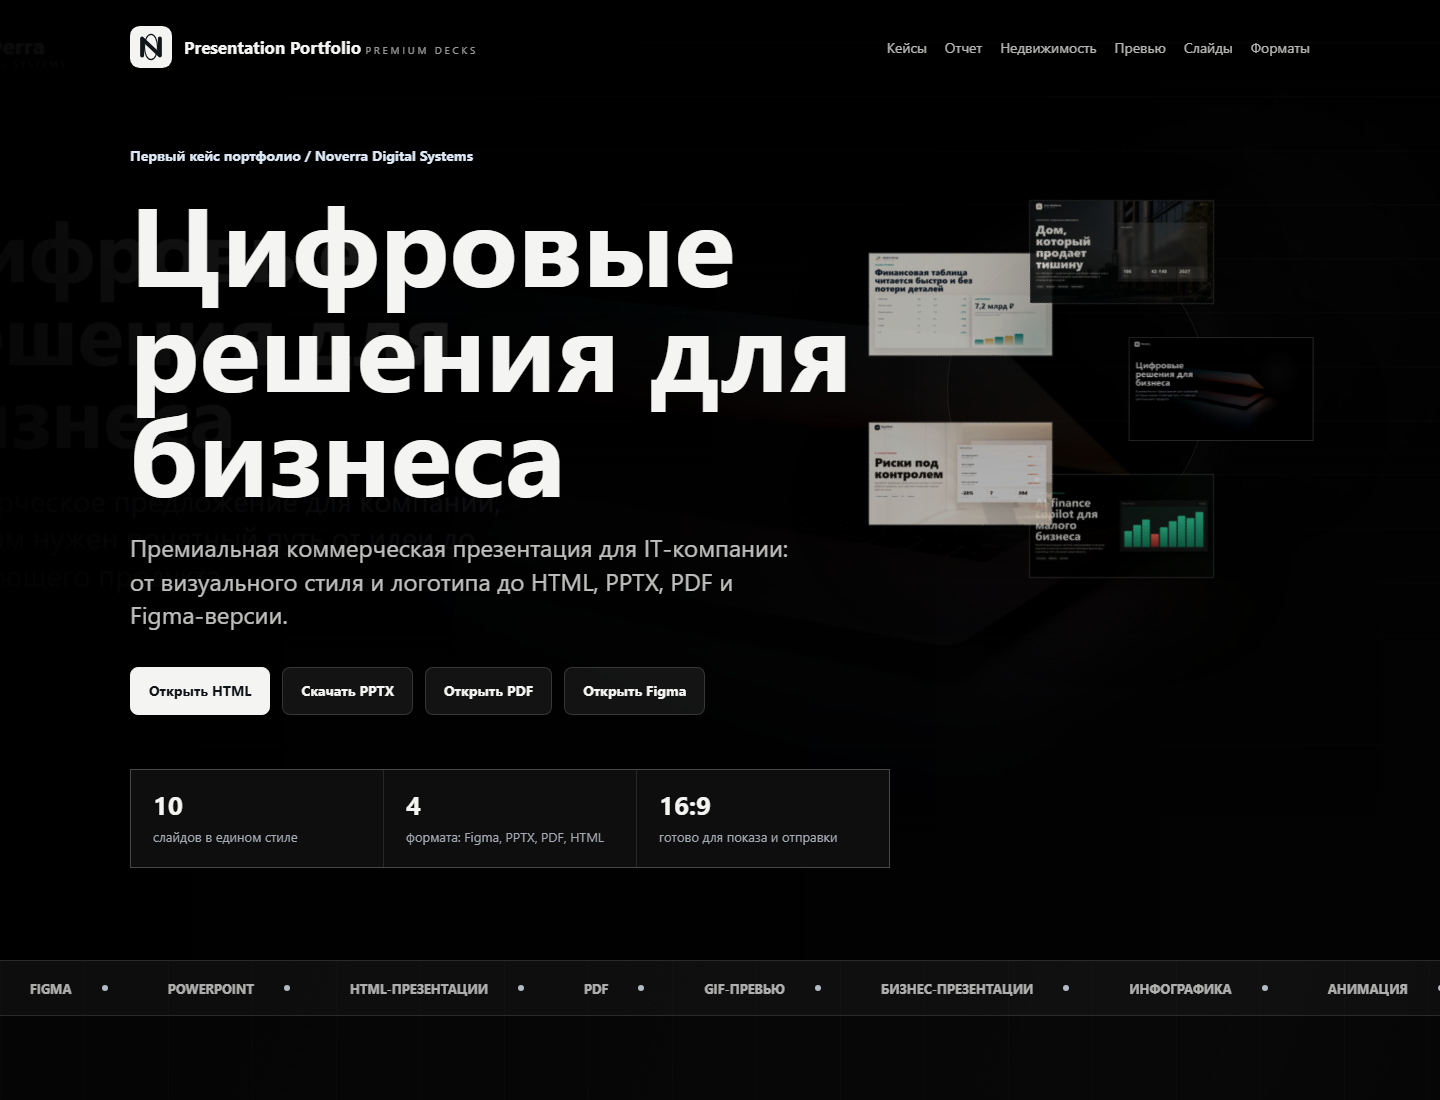
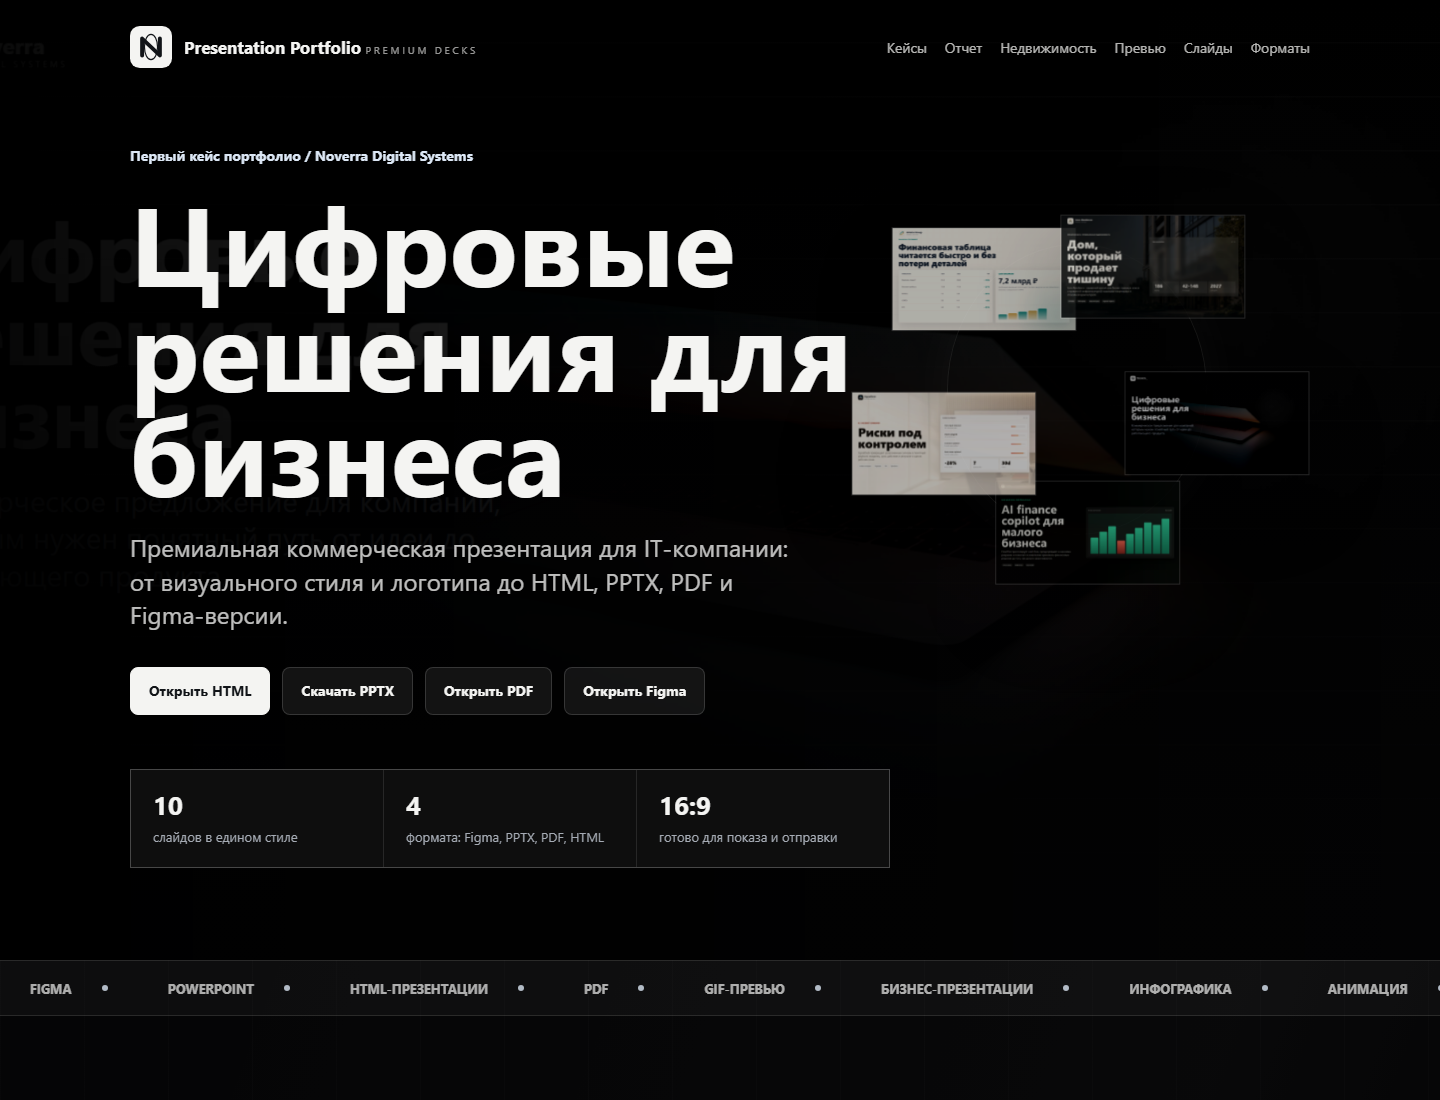
Make hero previews rotate continuously

Changed region(s): [[0.5938, 0.1855, 0.875, 0.5255], [0.7812, 0.3091, 0.875, 0.4018]]

diff --git a/index.html b/index.html
@@ -119,7 +119,6 @@
       position: absolute;
       inset: 2%;
       --orbit-radius: clamp(120px, 10vw, 165px);
-      animation: orbitSpin 30s linear infinite;
       transform-origin: 50% 50%;
     }
 
@@ -139,6 +138,7 @@
       width: clamp(138px, 13vw, 210px);
       aspect-ratio: 16 / 9;
       transform: translate(-50%, -50%) rotate(var(--angle)) translateX(var(--orbit-radius));
+      animation: orbitFrame 24s linear infinite;
     }
 
     .motion-card {
@@ -150,7 +150,7 @@
       overflow: hidden;
       opacity: .88;
       transform: rotate(var(--counter-angle));
-      animation: counterOrbit 30s linear infinite;
+      animation: counterOrbit 24s linear infinite;
     }
 
     .motion-card img {
@@ -649,9 +649,9 @@
       to { background-position: 0 0, 0 0, 0 54px; }
     }
 
-    @keyframes orbitSpin {
-      from { transform: rotate(0deg); }
-      to { transform: rotate(360deg); }
+    @keyframes orbitFrame {
+      from { transform: translate(-50%, -50%) rotate(var(--angle)) translateX(var(--orbit-radius)); }
+      to { transform: translate(-50%, -50%) rotate(calc(var(--angle) + 360deg)) translateX(var(--orbit-radius)); }
     }
 
     @keyframes counterOrbit {
@@ -770,6 +770,14 @@
       body.motion-ready .motion-reveal {
         opacity: 1;
         transform: none;
+      }
+
+      .motion-frame {
+        animation: orbitFrame 24s linear infinite !important;
+      }
+
+      .motion-card {
+        animation: counterOrbit 24s linear infinite !important;
       }
     }
   </style>